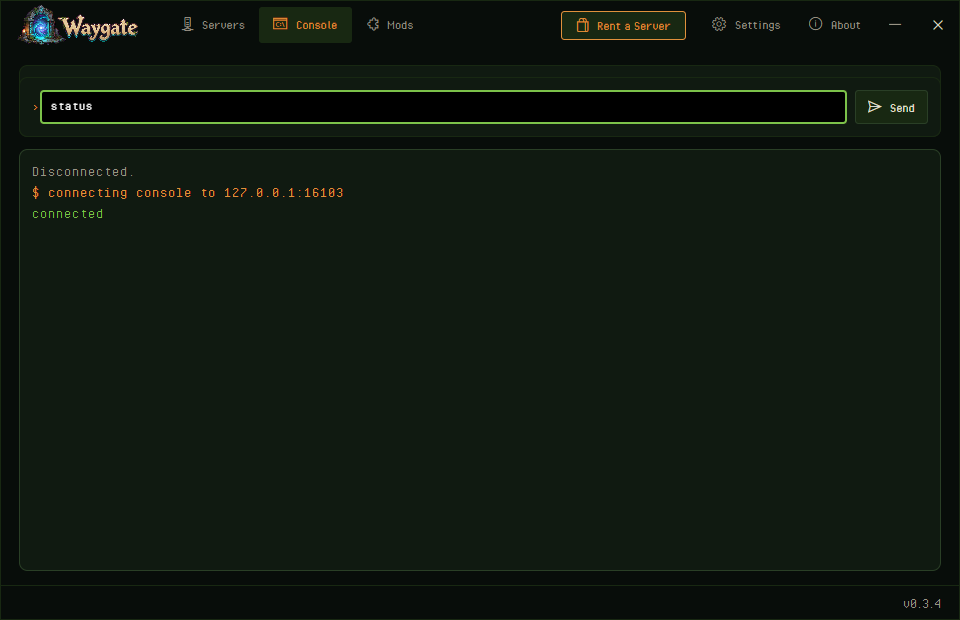
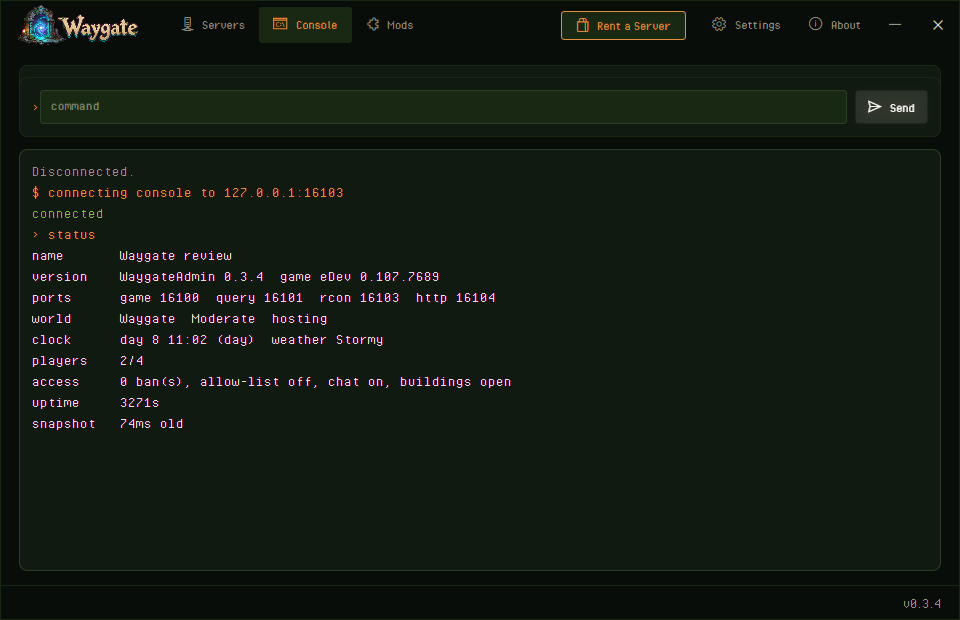
README: the Console tab picture shows a status command answered

diff --git a/README.md b/README.md
@@ -52,7 +52,7 @@ Every Waygate server serves a page about itself: the world map drawn from the ga
 The Console tab in the app talks to the server's admin port: the live log, the command line and the same commands the server's page has, once the admin password is set.
 
 <p align="center">
-  <img src="docs/img/launcher-console.png" alt="The app's Console tab connected to a server, with a command typed" width="860">
+  <img src="docs/img/launcher-console.png" alt="The app's Console tab connected to a server, with a status command answered" width="860">
 </p>
 
 ### 🧩 Mods
